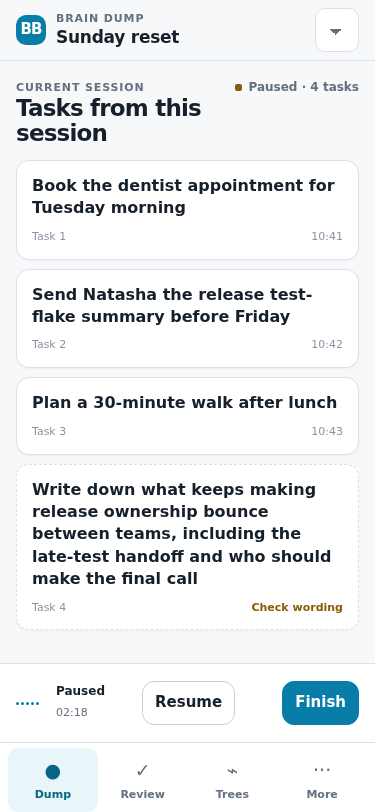
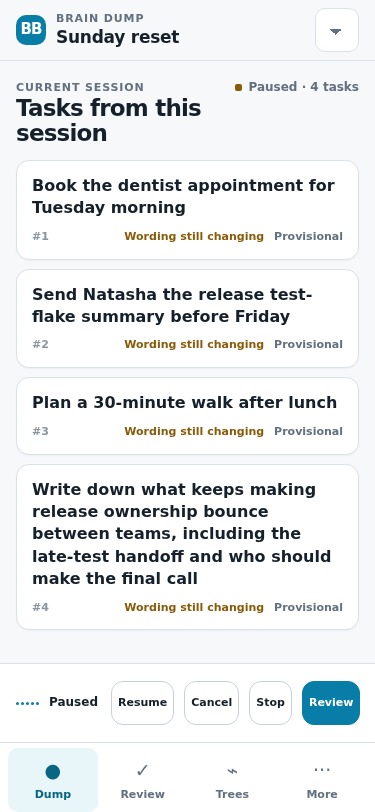
docs: align brain dump prototype with founder controls

diff --git a/docs/design/mobile-first-proposal/prototype.html b/docs/design/mobile-first-proposal/prototype.html
@@ -127,21 +127,22 @@
     .session-task { min-width: 0; padding: 14px 15px; border: 1px solid var(--line); border-radius: 13px; background: var(--surface); box-shadow: 0 1px 2px rgba(15,30,45,.04); }
     .session-task p { overflow-wrap: anywhere; font-size: 16px; line-height: 1.4; font-weight: 650; }
     .session-task footer { display: flex; align-items: center; justify-content: space-between; gap: 12px; margin-top: 9px; color: var(--faint); font-size: 11px; }
-    .session-task.needs-action { border-style: dashed; }
-    .session-task.needs-action footer span:last-child { color: var(--warning); font-weight: 700; }
+    .draft-markers { display: flex; flex-wrap: wrap; justify-content: flex-end; gap: 5px 10px; }
+    .wording-state { color: var(--warning); font-weight: 700; }
+    .proposal-state { color: var(--muted); font-weight: 700; }
     .empty-session { display: grid; place-items: center; min-height: 320px; padding: 32px 20px; border: 1px dashed var(--line-strong); border-radius: var(--radius); text-align: center; }
     .empty-session p { max-width: 30ch; margin-top: 7px; color: var(--muted); }
     .record-panel { display: flex; align-items: center; gap: 10px; width: 100%; min-height: 58px; max-width: 688px; margin: auto; }
-    .record-cue { min-width: 76px; }
+    .record-cue { min-width: 52px; }
     .record-cue strong { display: block; font-size: 12px; }
-    .elapsed { color: var(--muted); font-size: 11px; font-variant-numeric: tabular-nums; }
     .mini-wave { display: flex; align-items: center; gap: 2px; width: 30px; height: 24px; }
     .mini-wave i { width: 3px; border-radius: 3px; background: var(--accent); }
     .mini-wave i:nth-child(1), .mini-wave i:nth-child(5) { height: 7px; }
     .mini-wave i:nth-child(2), .mini-wave i:nth-child(4) { height: 15px; }
     .mini-wave i:nth-child(3) { height: 22px; }
-    .record-panel .btn { min-height: 44px; padding: 8px 12px; }
-    .record-panel .finish { margin-left: auto; }
+    .record-panel .btn { min-height: 44px; padding: 7px 8px; font-size: 12px; }
+    .record-panel .capture-control { padding-inline: 6px; font-size: 11px; }
+    .record-panel .cancel { margin-left: auto; }
     .finished-panel { display: flex; align-items: center; gap: 10px; margin-top: 14px; padding: 10px; border: 1px solid var(--line); border-radius: 13px; background: var(--surface); }
     .finished-panel .btn:first-of-type { margin-left: auto; }
 
@@ -346,22 +347,22 @@
       return shell(main(`
         <div class="session-summary"><div><p class="eyebrow">Current session</p><h1>Tasks from this session</h1></div><span class="session-state finished">Not started</span></div>
         <section class="empty-session" aria-labelledby="empty-title"><div><h2 id="empty-title">Your task list will grow here</h2><p>Keep talking naturally. BrainBuddy adds each task as it understands it.</p></div></section>
-      `, true), { dock: dock(`<div class="record-panel"><div class="record-cue"><strong>Ready</strong><span class="elapsed">00:00</span></div><button class="btn primary finish" aria-label="Start recording" onclick="go('recording')">Start</button></div>`) });
+      `, true), { dock: dock(`<div class="record-panel"><div class="record-cue"><strong>Ready</strong></div><button class="btn primary cancel" aria-label="Start recording" onclick="go('recording')">Start</button></div>`) });
     }
 
     const sessionTasks = [
-      ["Book the dentist appointment for Tuesday morning", "10:41"],
-      ["Send Natasha the release test-flake summary before Friday", "10:42"],
-      ["Plan a 30-minute walk after lunch", "10:43"],
-      ["Write down what keeps making release ownership bounce between teams, including the late-test handoff and who should make the final call", "10:44", "Check wording"]
+      "Book the dentist appointment for Tuesday morning",
+      "Send Natasha the release test-flake summary before Friday",
+      "Plan a 30-minute walk after lunch",
+      "Write down what keeps making release ownership bounce between teams, including the late-test handoff and who should make the final call"
     ];
 
     function sessionTaskList() {
-      return `<ol class="session-list" aria-live="polite" aria-label="Tasks extracted in this session">${sessionTasks.map((task, index) => `<li class="session-task ${task[2] ? "needs-action" : ""}"><p>${task[0]}</p><footer><span>Task ${index + 1}</span><span>${task[2] || task[1]}</span></footer></li>`).join("")}</ol>`;
+      return `<ol class="session-list" aria-live="polite" aria-label="Drafts extracted in this session">${sessionTasks.map((task, index) => `<li class="session-task"><p>${task}</p><footer><strong>#${index + 1}</strong><span class="draft-markers"><span class="wording-state">Wording still changing</span><span class="proposal-state">Provisional</span></span></footer></li>`).join("")}</ol>`;
     }
 
     function recorderDock(paused = false) {
-      return dock(`<div class="record-panel"><div class="mini-wave ${paused ? "paused" : ""}" aria-hidden="true">${"<i></i>".repeat(5)}</div><div class="record-cue"><strong>${paused ? "Paused" : "Recording"}</strong><span class="elapsed">02:18</span></div><button class="btn" onclick="go('${paused ? "recording" : "paused"}')">${paused ? "Resume" : "Pause"}</button><button class="btn primary finish" onclick="go('finished')">Finish</button></div>`);
+      return dock(`<div class="record-panel"><div class="mini-wave ${paused ? "paused" : ""}" aria-hidden="true">${"<i></i>".repeat(5)}</div><div class="record-cue"><strong>${paused ? "Paused" : "Recording"}</strong></div><button class="btn capture-control" onclick="go('${paused ? "recording" : "paused"}')">${paused ? "Resume" : "Pause"}</button><button class="btn capture-control cancel" onclick="go('idle')">Cancel</button><button class="btn capture-control" onclick="go('finished')">Stop</button><button class="btn primary capture-control" onclick="go('drafts')">Review</button></div>`);
     }
 
     function recording(paused = false) {
@@ -392,13 +393,13 @@
     }
 
     const candidateData = [
-      { n: 1, title: "Map why release-quality ownership is unclear", kind: "Problem", status: "Reconciled", cls: "accent" },
-      { n: 2, title: "Send the dentist form tomorrow", kind: "Task", status: "Edited by you", cls: "good" },
-      { n: 3, title: "Ask Natasha for the test-flake trend before Friday", kind: "Task", status: "Review wording", cls: "warn" }
+      { n: 1, title: "Map why release-quality ownership is unclear", status: "Reconciled", cls: "accent" },
+      { n: 2, title: "Send the dentist form tomorrow", status: "Edited by you", cls: "good" },
+      { n: 3, title: "Ask Natasha for the test-flake trend before Friday", status: "Review wording", cls: "warn" }
     ];
 
     function candidateCard(item, checkbox = false) {
-      return `<article class="candidate selected">${checkbox ? `<input type="checkbox" checked aria-label="Select ${item.title}">` : `<div class="pill accent">${item.n}</div>`}<div><h3>${item.title}</h3><div class="candidate-meta"><span class="pill">${item.kind}</span><span class="pill ${item.cls}">${item.status}</span></div><div class="candidate-actions"><button class="btn" onclick="alert('Static prototype: editor would open keyboard-safe full-page.')">Edit</button><button class="btn" onclick="this.closest('.candidate').style.opacity='.5'">Defer</button></div></div></article>`;
+      return `<article class="candidate selected">${checkbox ? `<input type="checkbox" checked aria-label="Select ${item.title}">` : `<div class="pill accent">#${item.n}</div>`}<div><h3>${item.title}</h3><div class="candidate-meta"><span class="pill ${item.cls}">${item.status}</span></div><div class="candidate-actions"><button class="btn" onclick="alert('Static prototype: editor would open keyboard-safe full-page.')">Edit</button><button class="btn" onclick="this.closest('.candidate').style.opacity='.5'">Defer</button></div></div></article>`;
     }
 
     function drafts() {

diff --git a/docs/design/mobile-first-proposal/design-brief.md b/docs/design/mobile-first-proposal/design-brief.md
@@ -26,7 +26,7 @@ A persistent four-item bottom bar provides thumb-reachable destinations:
 - **Trees** — CRT list and focused tree/detail view.
 - **More** — operation history, privacy/retention, task-tracker destination, account, and sign-out.
 
-The current section and compact session title sit in the top app bar. During an active Brain Dump, an understated text state plus a small audio-level cue provides recording confidence without competing with the task list. Contextual back navigation replaces the title on detail/editor screens. A sticky bottom action dock contains compact Start / Pause / Resume / Finish controls above the navigation and safe-area inset.
+The current section and compact session title sit in the top app bar. During an active Brain Dump, an understated text state plus a small audio-level cue provides recording confidence without competing with the draft list. Contextual back navigation replaces the title on detail/editor screens. A sticky bottom action dock keeps Cancel / Stop / Review available above the navigation and safe-area inset; Pause / Resume remains subordinate to those three controls.
 
 ### Desktop (768px and above)
 
@@ -58,11 +58,11 @@ Breakpoints are content-driven. The prototype uses 768px for the shell transitio
 - **One dominant surface per state.** During recording, the chronological session task list—not the recorder—is the product. Confirmation later emphasizes Confirm selected; review detail emphasizes a decision, not navigation.
 - **44px minimum touch targets**, 8px spacing rhythm, 16px phone gutters, and safe-area padding via `env(safe-area-inset-*)`.
 - **State before decoration.** Status labels use text plus shape/icon, never color alone. Unknown-duration work uses stage text and indeterminate progress, not fake percentages.
-- **Proposals are not records.** Extracted tasks remain tentative in the product contract, but the active capture surface does not repeat processing badges. A quiet dashed treatment and explicit “Check wording” cue appear only when user action is useful; detailed states remain available after Finish.
+- **Proposals are not records.** Each extracted draft keeps its stable ordinal plus the explicit “Wording still changing” and “Provisional” cues. Detailed provenance and reconciliation remain outside the active-capture surface.
 - **Destructive and external actions remain explicit.** Delete, route, existing-item edits, and CRT promotion stay individually reviewable even when “select safe additions” is available.
 - **Keyboard and focus.** Logical DOM order, visible `:focus-visible`, Escape closes sheets/dialogs, Enter submits only single-line fields, and text areas preserve newline entry. Sticky controls move above the on-screen keyboard; content remains scrollable.
 - **Resumability.** Closing the app never implies cancellation. Every live operation exposes “Safe to leave” and restores its phase, item, edits, and queue position.
-- **Operational detail stays secondary.** Network, storage, transcript, pipeline, and routing detail is available after Finish or through operation detail—not in the focused active-session view. A blocking capture failure may interrupt the control only when the user must act.
+- **Operational detail stays secondary.** Network, storage, transcript, pipeline, and routing detail is available after capture or through operation detail—not in the focused active-session view. A blocking capture failure may interrupt the control only when the user must act.
 - **Error locality.** Retry is placed beside the failed stage/action. Correlation/reference details are expandable, not primary copy. Terminal microphone/storage errors offer salvage or deletion where possible.
 - **Accessible semantics.** Landmarks, headings, list semantics, `aria-live` for incremental session tasks/progress, explicit button labels, form labels/help, reduced-motion support, and contrast suitable for WCAG AA.
 - **Visual continuity.** Reuse the current slate surfaces, sky accent, soft borders/shadows, and restrained rounded corners. The proposal removes desktop-only hover dependence and does not lean on glass/gradient effects.
@@ -72,9 +72,9 @@ Breakpoints are content-driven. The prototype uses 768px for the shell transitio
 ### Brain Dump
 
 1. Idle: an empty session-task list explains what will appear; compact Start sits in the recorder dock.
-2. Recording: extracted task cards arrive chronologically while a compact waveform, elapsed cue, Pause, and Finish provide confidence without dominating.
+2. Recording: numbered draft cards arrive chronologically while a compact level meter and recording label provide confidence without a timer; Cancel, Stop, and Review stay available.
 3. Pause/resume: the same list remains stable; text, static audio bars, and control labels communicate state without relying on color or motion.
-4. Finish: the recorder collapses to a compact completed state; review, reconciliation, diagnostics, confirmation, and routing continue on subsequent surfaces.
+4. Stop: the recorder collapses to a compact completed state; review, reconciliation, diagnostics, confirmation, and routing continue on subsequent surfaces.
 5. Draft review: inspect/edit/reorder/defer candidates; reconciled changes show source cues and warnings.
 6. Freeze/confirm: safe additions may be grouped; destructive, routing, existing-item, or CRT actions remain individual.
 7. Commit: per-action results remain visible; local completion may coexist with asynchronous routing/promotion.

diff --git a/docs/design/mobile-first-proposal/decision-log.md b/docs/design/mobile-first-proposal/decision-log.md
@@ -10,7 +10,7 @@ Scope: static UX direction only; no production feature code
 2. **A mobile bottom bar and desktop left rail with the same four destinations.** Information architecture stays stable while composition changes by viewport.
 3. **A persistent, thumb-reachable action dock.** The active workflow’s primary action remains visible above browser and device safe areas.
 4. **Chronological session task list as the active Brain Dump surface.** The user watches extracted tasks accumulate while speaking; the recorder is a compact utility rather than the page’s focal object.
-5. **Quiet proposal authority during capture.** Extracted tasks remain tentative under ADR-0002, but processing/provisional badges are suppressed unless wording needs the user’s attention. Full provenance and reconciliation move after Finish.
+5. **Explicit proposal authority during capture.** Every extracted draft keeps a stable ordinal plus “Wording still changing” and “Provisional”; full provenance and reconciliation stay out of the active capture view.
 6. **Confirmation before canonical writes.** Safe additions can be selected together; destructive/external/existing-item/CRT actions remain individually visible.
 7. **Resumable async, offline, retry, partial-commit, and terminal-error states.** These are core product behavior, not edge-case polish.
 8. **Weekly Review as a bounded queue with one-item phone focus.** Every item receives an outcome or explicit defer before completion.
@@ -21,7 +21,7 @@ Scope: static UX direction only; no production feature code
 
 - **Keep:** continuous voice capture, incremental extraction, safe tentative-task contract, mobile accessibility, and post-Finish review.
 - **Remove from active capture:** giant record affordance, red live treatment, prominent timer, transcript feed, upload/chunk status, pipeline stages, routing choices, CRT promotion, confirmation flow, and error-state gallery.
-- **Change:** the chronological current-session task list is now the primary content. Session identity and recording state are subtle; Start / Pause / Resume / Finish plus a five-bar audio cue share one compact dock.
+- **Change:** the chronological current-session draft list is now the primary content. Session identity and recording state are subtle; Cancel / Stop / Review remain primary in a compact dock, with Pause / Resume subordinate beside a five-bar audio cue and no elapsed timer.
 - **Accessibility guardrails:** controls remain at least 44px, state is named in text and shape rather than color alone, paused bars stop moving, reduced-motion is honored, long tasks wrap, focus remains visible, and the empty list explains what will happen.
 
 ## Intentionally excluded or deferred

diff --git a/docs/design/mobile-first-proposal/README.md b/docs/design/mobile-first-proposal/README.md
@@ -20,7 +20,7 @@ Use the scenario selector in the top-right corner to jump between representative
 |---|---:|---|
 | `01-brain-dump-active-375.png` | 375×812 | Active capture with chronological session task list and compact recorder |
 | `02-brain-dump-active-430.png` | 430×932 | Active capture at the wider required phone viewport |
-| `03-brain-dump-paused-375.png` | 375×812 | Stable task list with compact paused / resume / finish state |
+| `03-brain-dump-paused-375.png` | 375×812 | Stable draft list with compact paused / resume / cancel / stop / review state |
 | `08-brain-dump-finished-430.png` | 430×932 | Finished session with compact next-step control state |
 | `04-weekly-review-queue-375.png` | 375×812 | Bounded queue and real progress |
 | `05-weekly-review-crt-promotion-430.png` | 430×932 | Item detail and keep/edit/delete/defer/route/promote actions |
@@ -37,7 +37,7 @@ node docs/design/mobile-first-proposal/capture-screenshots.mjs
 
 The script checks each viewport for console/page errors and horizontal overflow, then exercises:
 
-`empty session → recording → paused → resumed → finished → review → partial result`
+`empty session → recording → paused → resumed → review → partial result`
 
 ## Visual self-audit
 
@@ -51,4 +51,4 @@ Initial slop diagnostic: **0/10**.
 - Centering is limited to true empty/completion states; the recorder is a compact dock utility.
 - Typography follows the existing product’s precise sans posture with native fallbacks for a fully offline artifact.
 
-Post-verification score: **0/10**. The 375px and 430px active views keep all four task cards dominant and readable, including the long-text case. The paused view communicates state through text and static bars, and the 430px finished view keeps next steps compact without reintroducing capture diagnostics.
+Post-verification score: **0/10**. The 375px and 430px active views keep all four numbered draft cards dominant and readable, including the long-text case. Every draft retains its provisional and changing-wording authority cues; the compact recorder has no timer and keeps Cancel, Stop, and Review available. The paused view communicates state through text and static bars, and the 430px finished view keeps next steps compact without reintroducing capture diagnostics.
